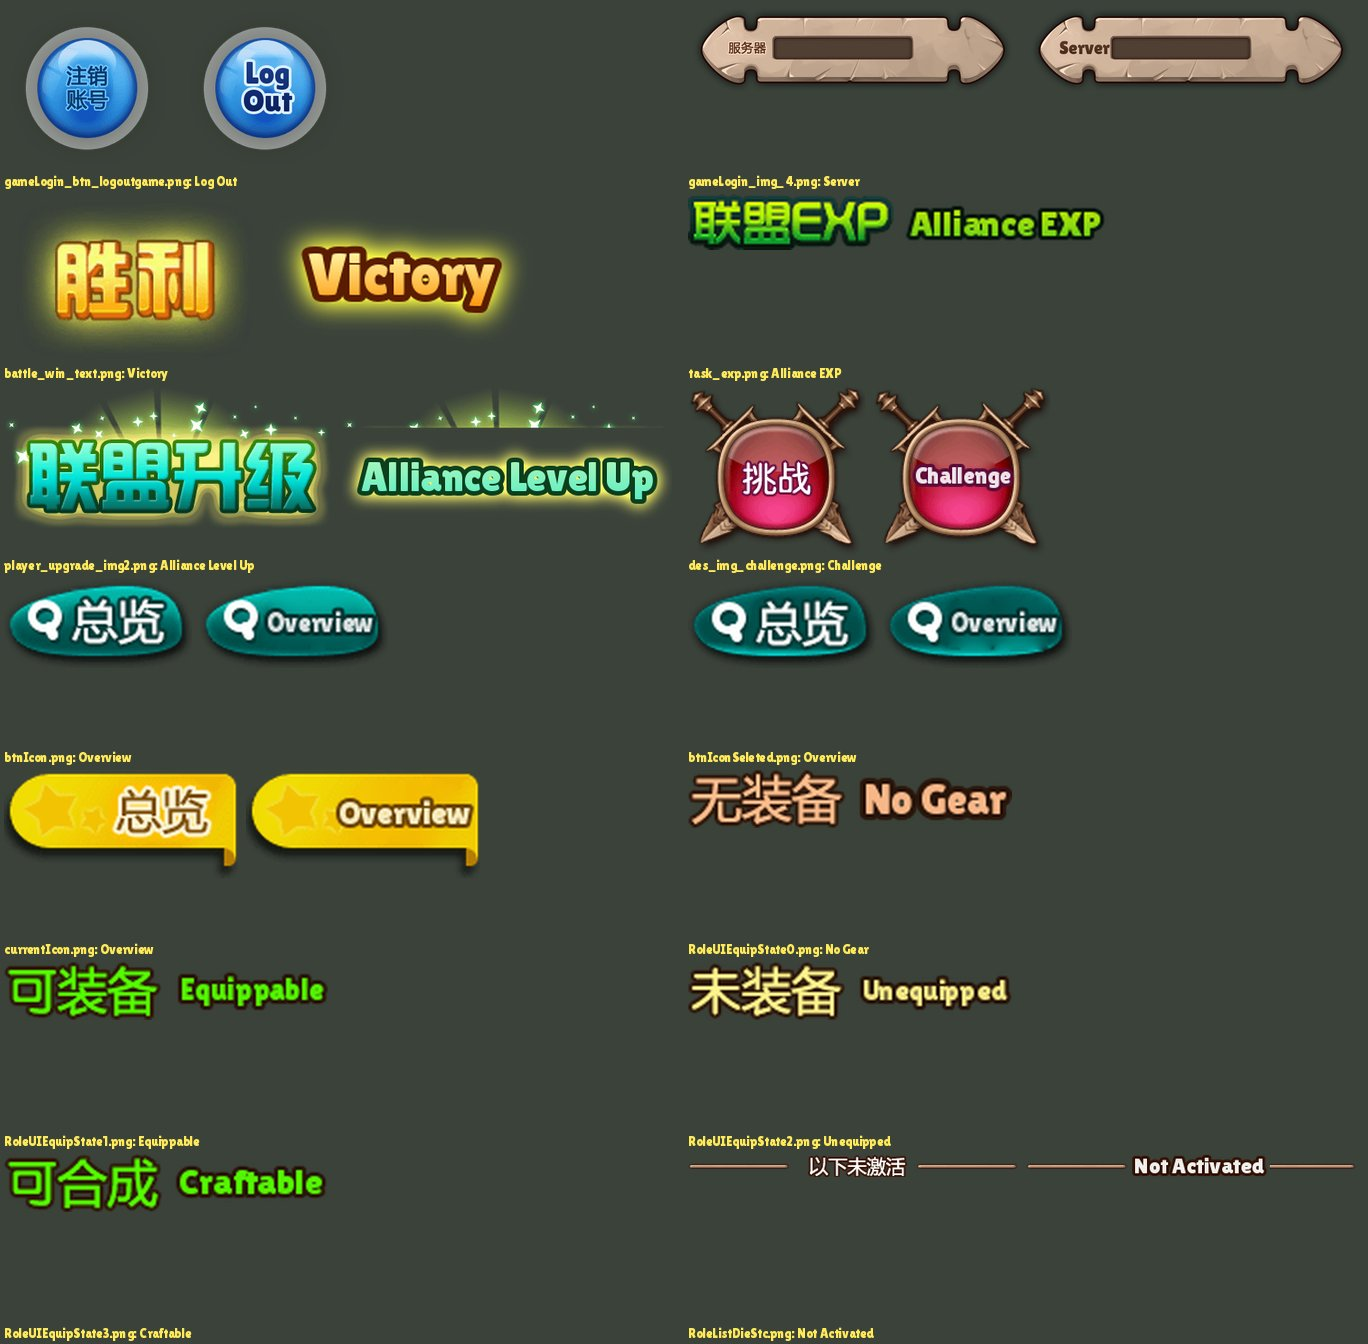
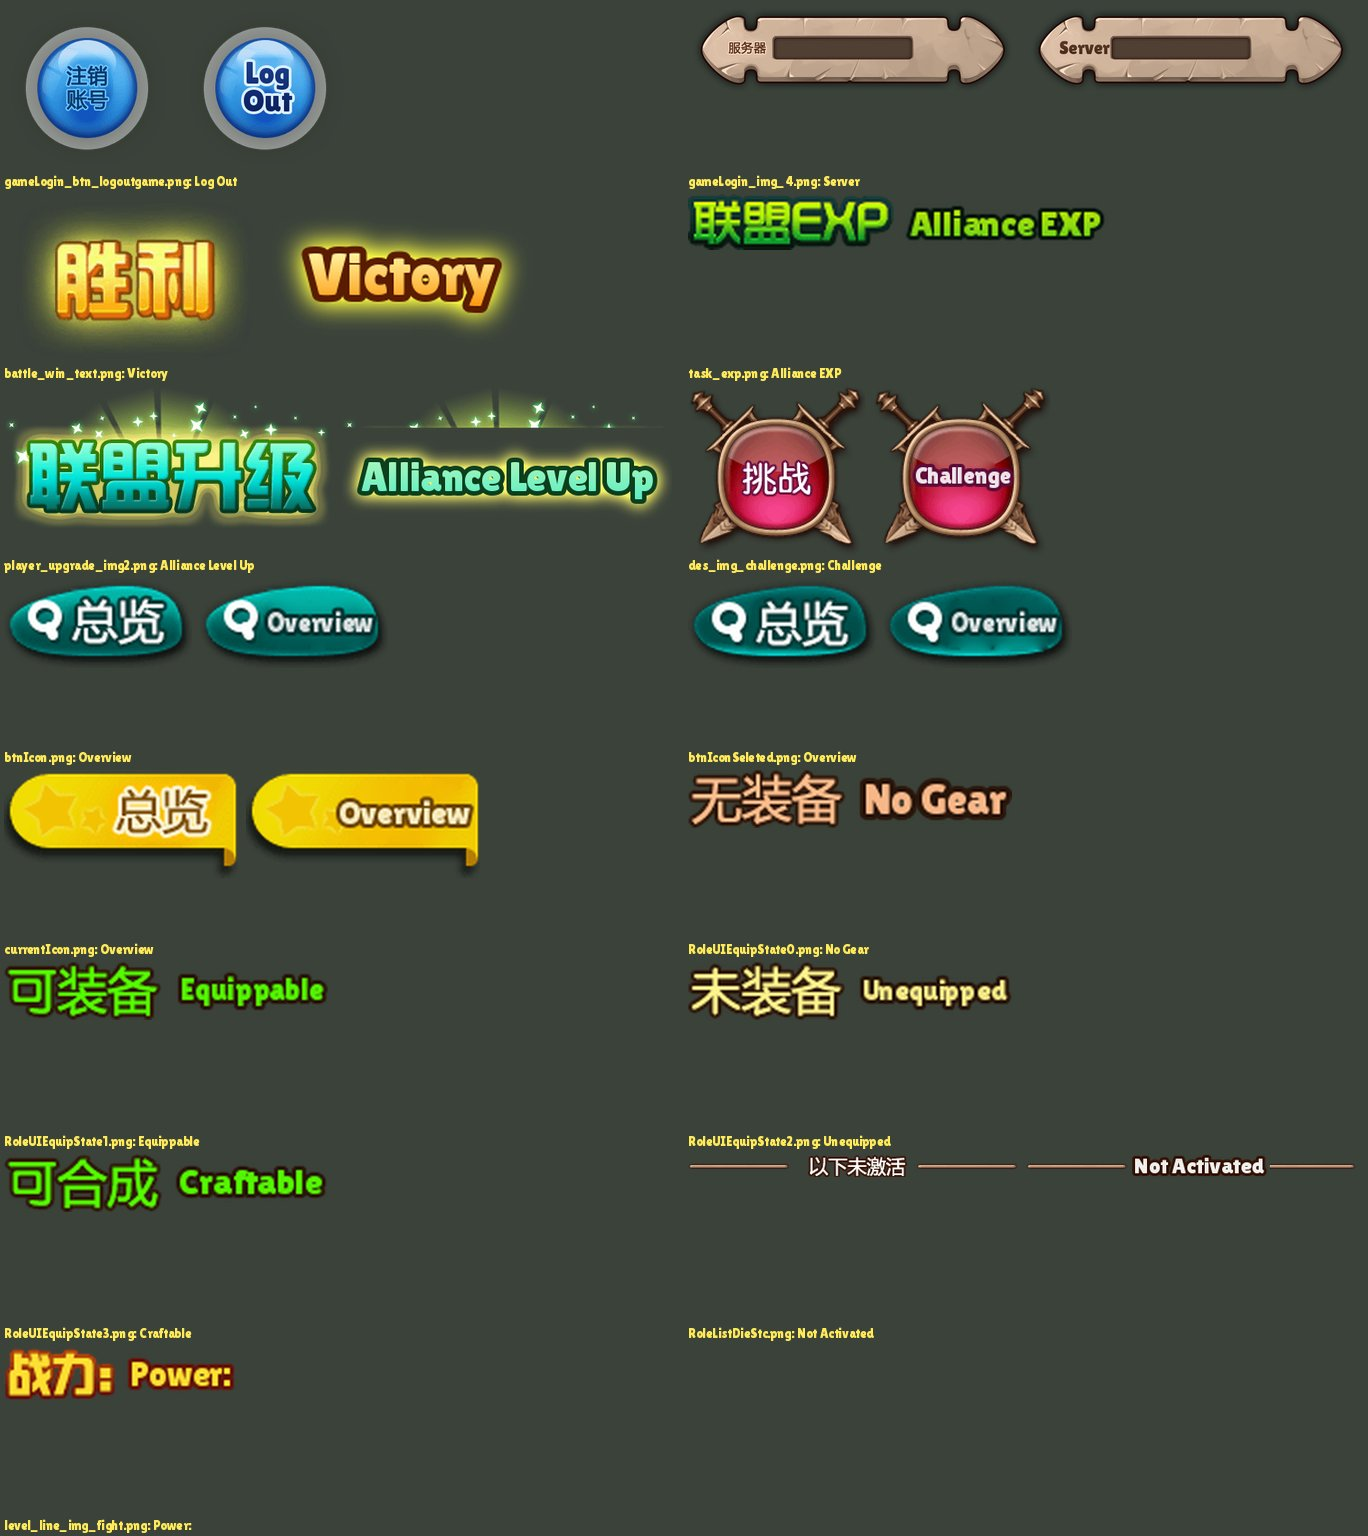
feat(localise): lineup team power label 战力: (level_line_img_fight.png) in English

diff --git a/docs/image-text-inventory.md b/docs/image-text-inventory.md
@@ -31,7 +31,7 @@ and signs only, no Chinese. The 71 *num*.png atlases are digit strips.
 
 ## Stage 1 re-draw (24-11-2026)
 
-141 images are now re-drawn in English by `py -3.14 -m localise.images` from the reviewed table
+142 images are now re-drawn in English by `py -3.14 -m localise.images` from the reviewed table
 `localise/images.toml`, into `data/en/assets/res/assets` (shipped by `client.build_assets`).
 Before/after sheets: `docs/screens/en-images-stage1/`.
 
@@ -43,7 +43,7 @@ Before/after sheets: `docs/screens/en-images-stage1/`.
 | title words | 52 of 77 | 25 carry no text (empty ribbons, frames, bars, banners) or are already English (title_double "x2") |
 | stamps | 0 of 27 | none carries Chinese: icons, masks, NEW!, VIP11/12, 1-4 dice faces |
 | main city activity buttons (activityBtn, not in the name rules) | 28 of 29 | actBtn_3: 抢 inside a red-envelope badge, a different style; left for later |
-| seen on screen | 14 | 注销账号, 服务器 plate, 胜利, 联盟EXP, 联盟升级, 挑战, 总览 x3, 无/可/未装备, 可合成, 以下未激活 |
+| seen on screen | 15 | 战力: on the lineup (level_line_img_fight), 注销账号, 服务器 plate, 胜利, 联盟EXP, 联盟升级, 挑战, 总览 x3, 无/可/未装备, 可合成, 以下未激活 |
 
 Not in stage 1: hero and angel name images, chapter banners, logo/login art.
 
